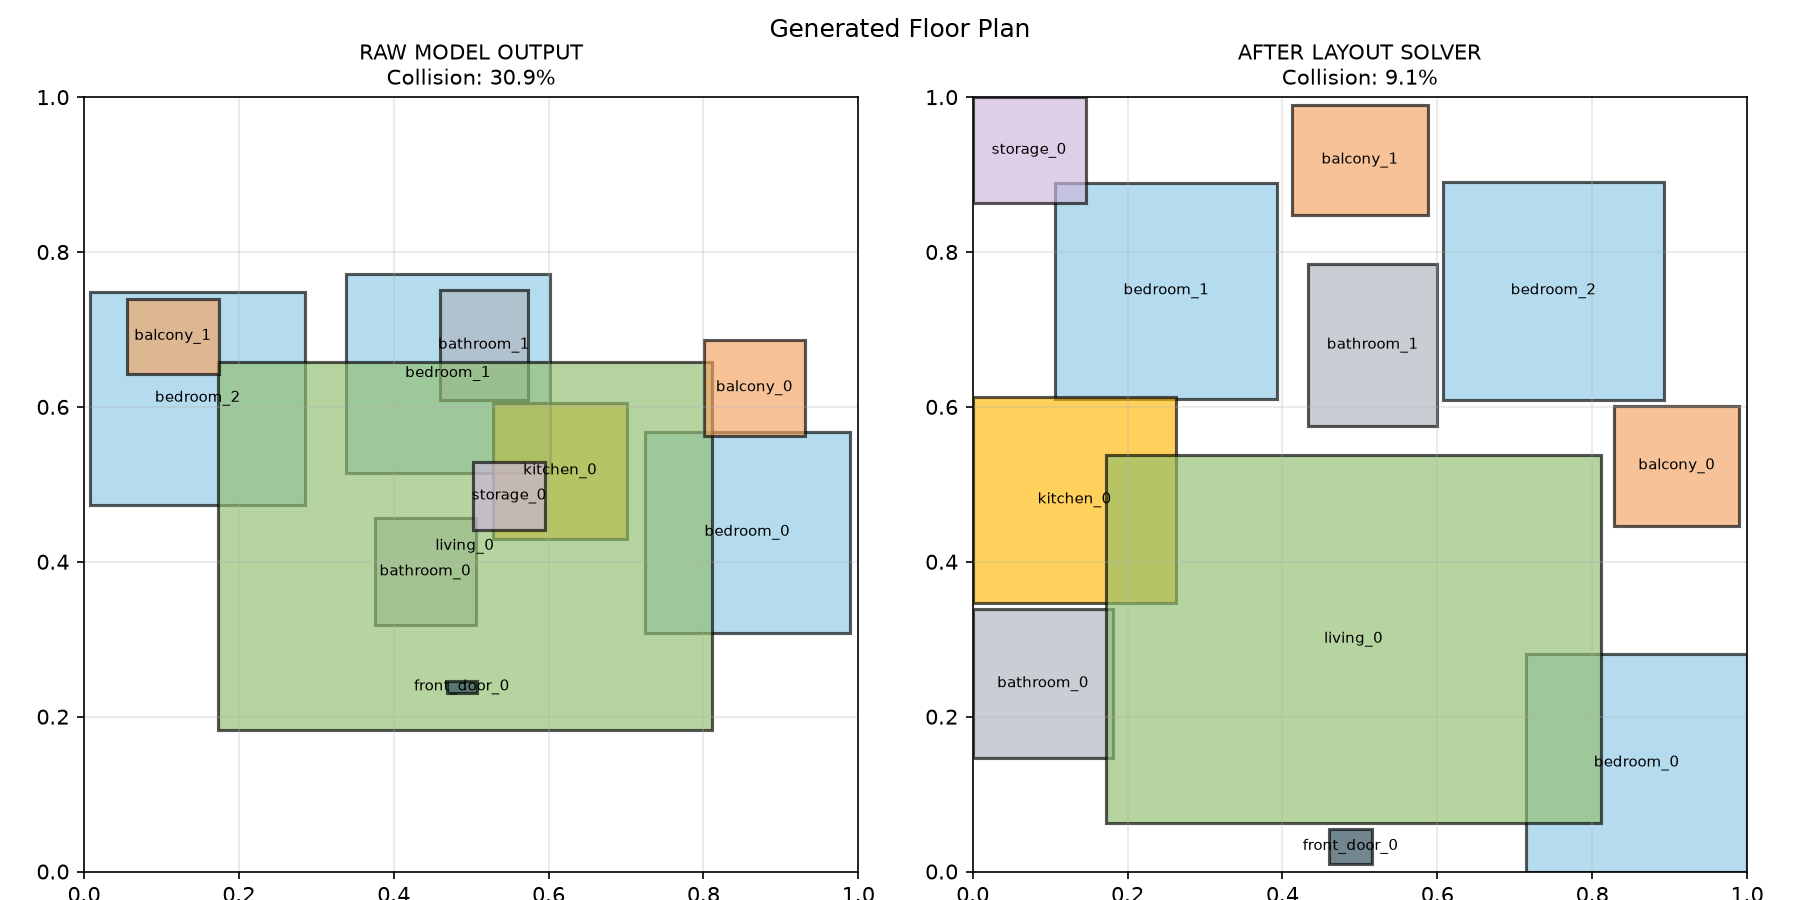
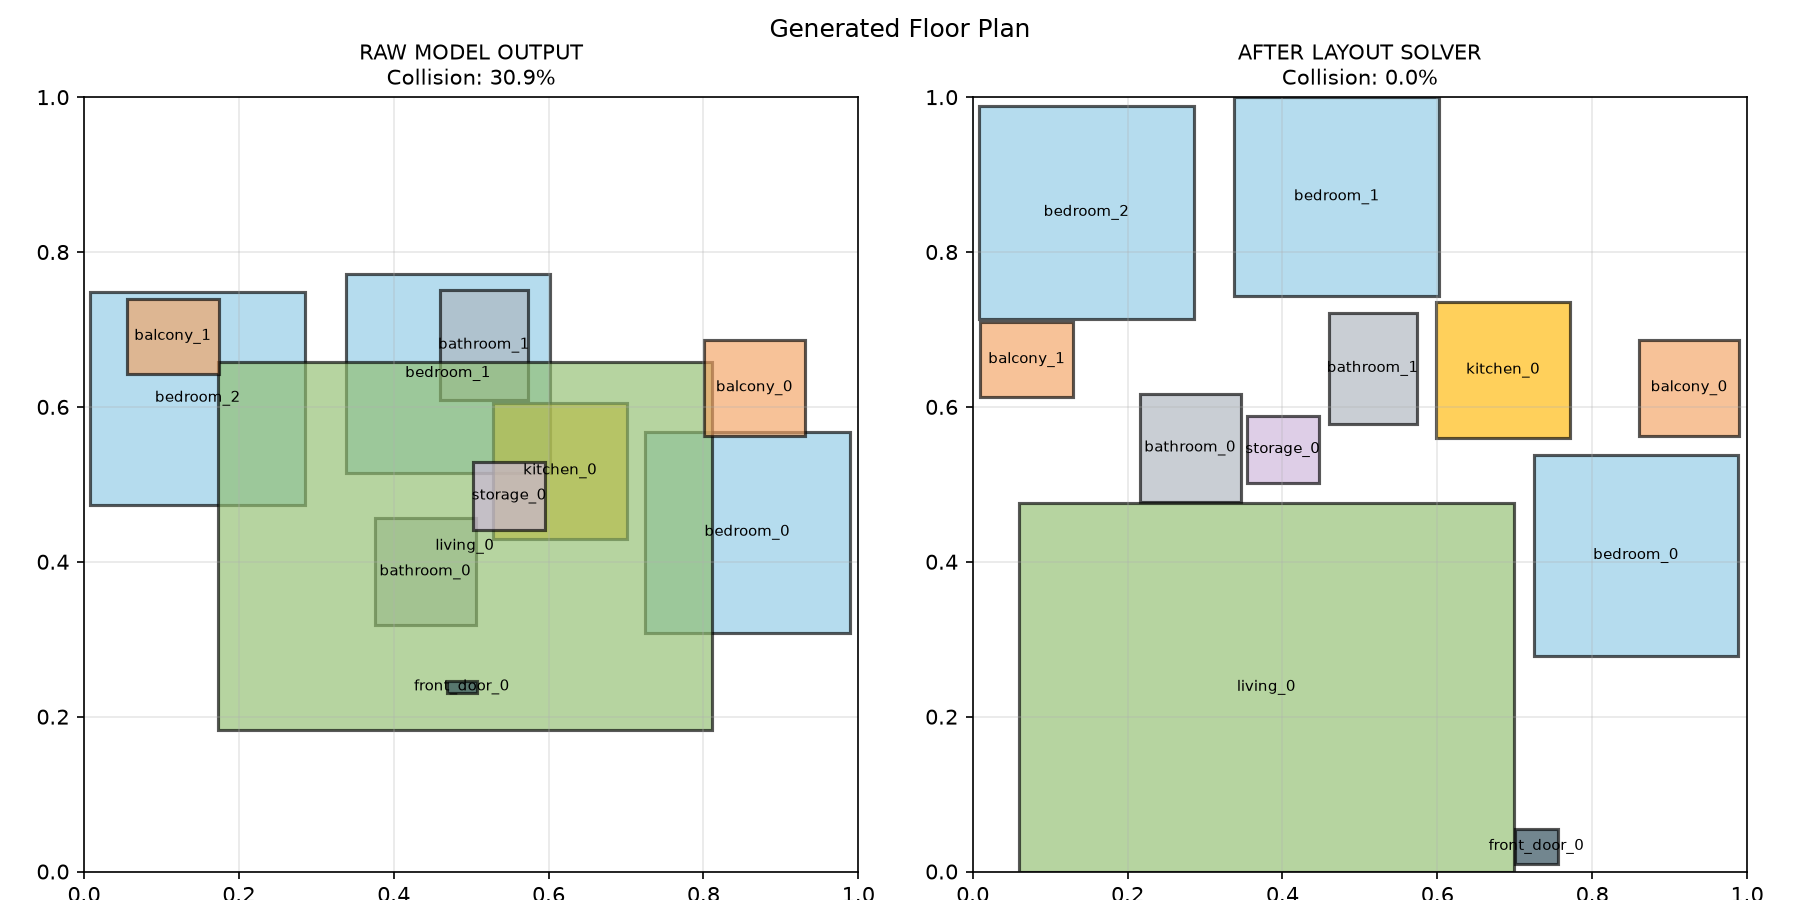
Fix layout solver to correct minimally instead of relocating rooms
The solver was resolving collisions by teleporting rooms to
hardcoded per-type template slots, forcing the living room to dead
center whenever it drifted near an edge, resizing every room to a
fixed architectural range regardless of whether it was needed, and
pulling the kitchen toward the living room unconditionally. Net
effect: collision rate went down but layouts stopped resembling the
model's actual prediction (oversized centered living rooms, rooms in
generic template positions).

Changed it to only correct what's actually broken:
 - room resizing now only kicks in for pathologically sized boxes,
   not every room on every plan
 - removed the forced living-room recenter override
 - candidate search is local/multi-scale relative to each room's
   current position instead of jumping to fixed global slots
 - kitchen-living distance is now a one-sided constraint (penalize
   being too far, don't keep pulling them together once close)

Tested on 4 fresh, non-dataset requirement sets (6 to 15 rooms):
collision rate goes from 28-53% raw down to 0-1.9% solved, with
rooms staying close to their raw predicted positions instead of
being relocated to generic slots. Before/after and stress-test
images included for comparison.

Changed region(s): [[0.5289, 0.0933, 0.9956, 0.9956], [0.6844, 0.7467, 0.7156, 0.7778]]

diff --git a/python/app/training/geometry/_layout/_solver.py b/python/app/training/geometry/_layout/_solver.py
@@ -183,7 +183,7 @@ def _relationship_cost(boxes, room_types, ids):
     if kitchen and living:
         for i in kitchen:
             d = _distance(_center(boxes[i]), _center(boxes[living[0]]))
-            cost += 2.2 * d*d
+            cost += 2.2 * max(d - 0.35, 0.0) ** 2
 
     if baths and bedrooms:
         for b in baths:
@@ -224,43 +224,19 @@ def _candidate_centers(box, room_type, living_center=None):
     cx, cy, w, h = [float(v) for v in box]
     candidates = [(cx, cy)]
 
-    # Small local moves first.
-    step = 0.06
-    for dx, dy in [
-        (-step, 0), (step, 0), (0, -step), (0, step),
-        (-step, -step), (-step, step), (step, -step), (step, step),
-        (-0.12, 0), (0.12, 0), (0, -0.12), (0, 0.12),
-    ]:
-        candidates.append((cx + dx, cy + dy))
+    # Local moves only, at increasing scale - correct just enough to
+    # clear a collision, don't teleport to a generic template slot.
+    for step in (0.03, 0.06, 0.10, 0.16, 0.24):
+        for dx, dy in [
+            (-step, 0), (step, 0), (0, -step), (0, step),
+            (-step, -step), (-step, step), (step, -step), (step, step),
+        ]:
+            candidates.append((cx + dx, cy + dy))
 
     t = int(room_type)
 
-    # Architectural fallback slots.
-    if t == 4:  # balcony
-        candidates += [(0.18, 0.90), (0.50, 0.90), (0.82, 0.90),
-                       (0.10, 0.50), (0.90, 0.50)]
-    elif t == 7:  # front door
-        candidates += [(0.50, 0.04), (0.18, 0.04), (0.82, 0.04),
-                       (0.04, 0.50), (0.96, 0.50)]
-    elif t == 3:  # living
-        candidates += [(0.50, 0.50), (0.42, 0.50), (0.58, 0.50)]
-    elif t == 2:  # kitchen
-        candidates += [(0.34, 0.50), (0.66, 0.50), (0.50, 0.34),
-                       (0.50, 0.66)]
-    elif t == 0:  # bedrooms
-        candidates += [(0.25, 0.75), (0.50, 0.78), (0.75, 0.75),
-                       (0.25, 0.25), (0.50, 0.22), (0.75, 0.25)]
-    elif t == 1:  # bathrooms
-        candidates += [(0.38, 0.62), (0.62, 0.62), (0.38, 0.38),
-                       (0.62, 0.38), (0.50, 0.62)]
-    elif t == 6:
-        candidates += [(0.10, 0.50), (0.90, 0.50), (0.50, 0.15),
-                       (0.50, 0.85)]
-    else:
-        candidates += [(0.25, 0.50), (0.75, 0.50), (0.50, 0.25),
-                       (0.50, 0.75)]
-
-    # If living exists, add positions around it.
+    # If living exists, allow moving toward/away from it - still a
+    # local, relative adjustment, not a fixed global slot.
     if living_center is not None and t != 3:
         lx, ly = living_center
         candidates += [
@@ -328,20 +304,22 @@ def refine_single_layout(
     if not ids:
         return boxes * 0
 
-    # First repair pathological sizes.
+    # Only repair pathologically-sized boxes (near-zero or absurdly
+    # large) - leave normally-sized model predictions untouched rather
+    # than forcing every room into a hand-tuned architectural range.
     for i in ids:
-        boxes[i] = _resize_box(boxes[i], int(room_types[i]))
+        t = int(room_types[i])
+        area = max(float(boxes[i, 2] * boxes[i, 3]), 1e-6)
+        lo, hi = SIZE_RANGES.get(t, (0.02, 0.30))
+        if area < lo * 0.3 or area > hi * 2.0:
+            boxes[i] = _resize_box(boxes[i], t)
 
-    # Establish a central living anchor when one exists.
+    # Establish a living anchor (if one exists) for relative placement
+    # of other rooms - without forcibly relocating it.
     living_ids = [i for i in ids if int(room_types[i]) == 3]
     living_center = None
     if living_ids:
         li = max(living_ids, key=lambda i: float(boxes[i, 2] * boxes[i, 3]))
-        # Only move a wildly misplaced living room toward the center.
-        lx, ly = _center(boxes[li])
-        if lx < 0.18 or lx > 0.82 or ly < 0.18 or ly > 0.82:
-            boxes[li, 0] = 0.50
-            boxes[li, 1] = 0.50
         living_center = _center(boxes[li])
 
     boxes = _enforce_exterior(boxes, room_types, ids)
